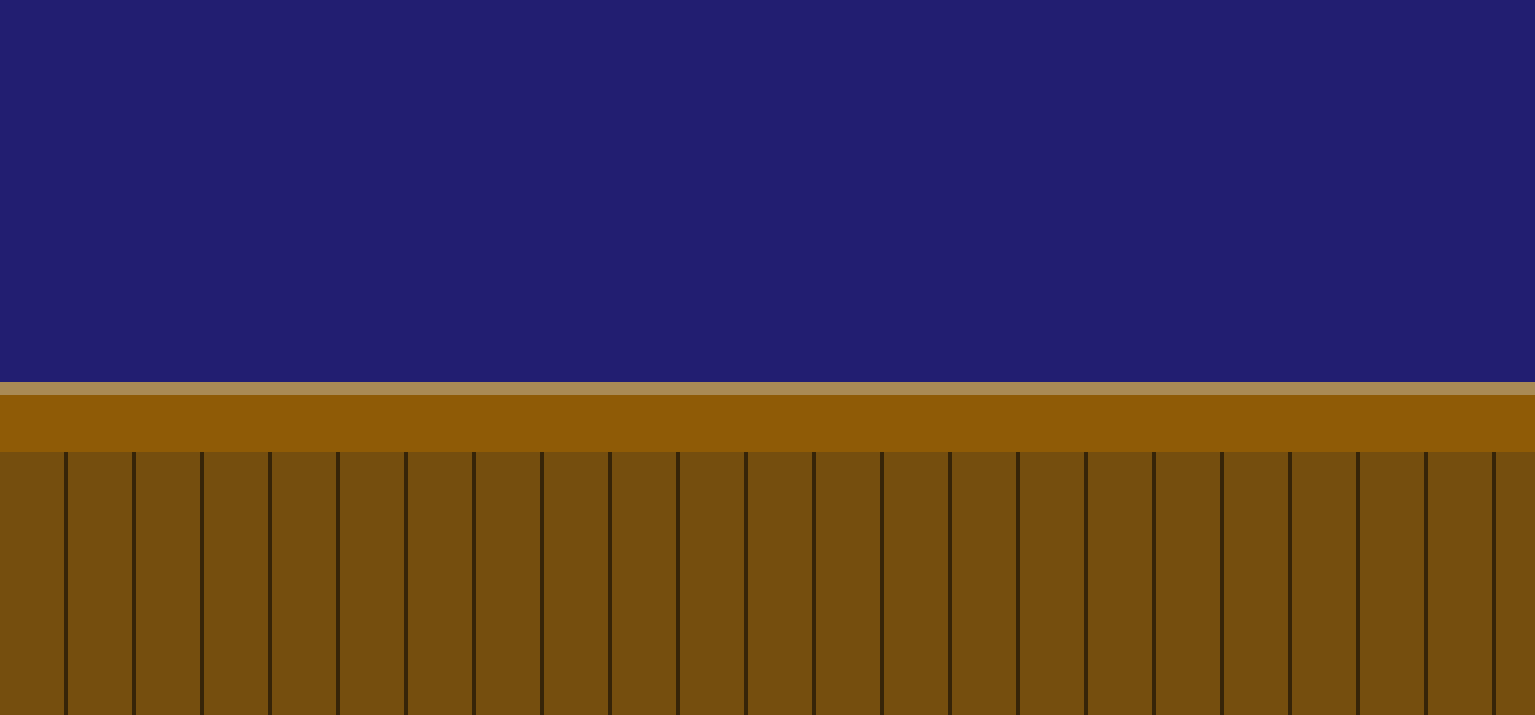
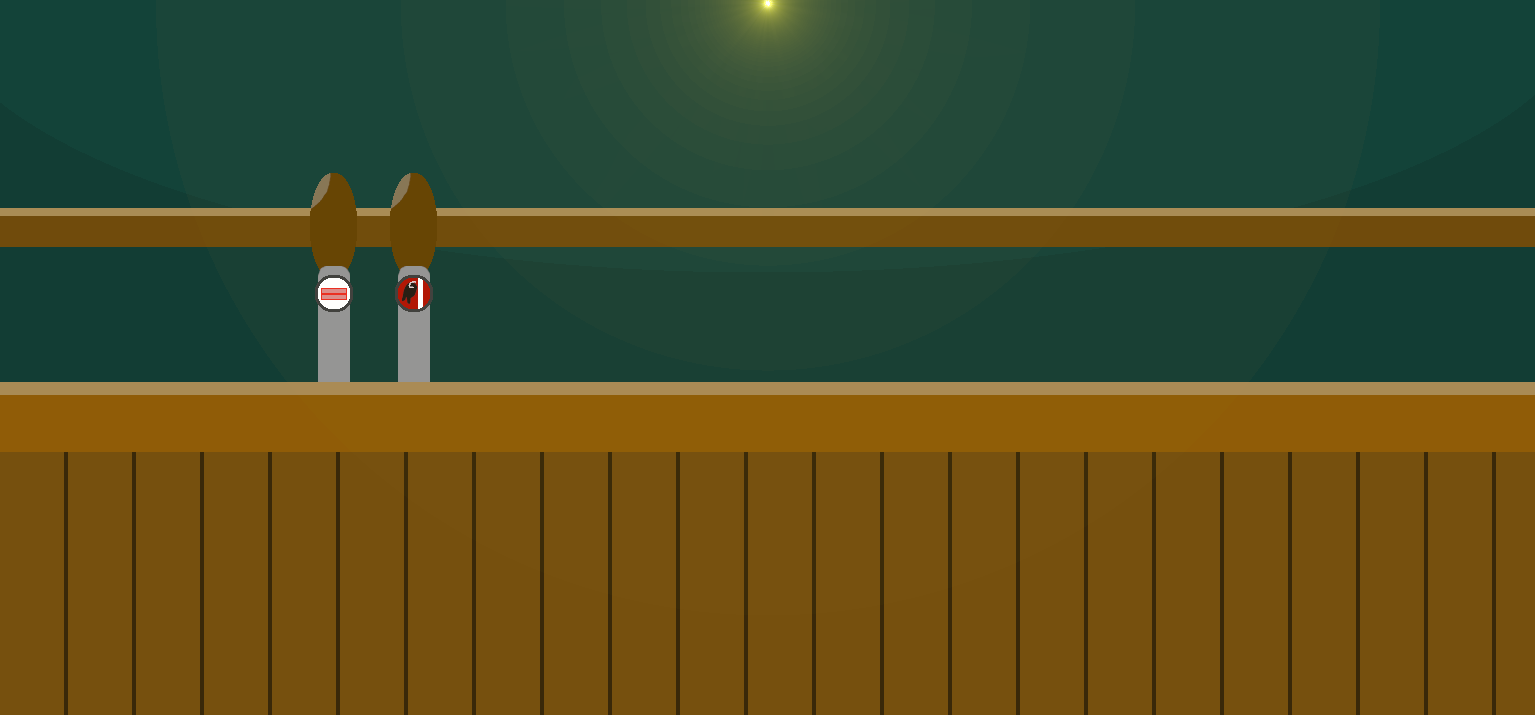
added final background

diff --git a/drunkster.py b/drunkster.py
@@ -143,14 +143,21 @@ while start_screen_running:
     bg = pygame.image.load('ui/images/bar.png')
     screen.blit(bg, (0,0))
 
+    # Display left plank
+    left_plank = pygame.image.load('ui/images/left_plank.png')
+    screen.blit(left_plank, (5, 437))
+
+    # Display left plank
+    left_plank = pygame.image.load('ui/images/right_plank.png')
+    screen.blit(left_plank, (1169, 344))
 
     # Set the pygame window name
     pygame.display.set_caption('Drunkster')
 
     # Displays text
     screen.blit(enter_player_text, (20, 520))
-    screen.blit(title_top_text, (440, 35))
-    screen.blit(title_bottom_text, (480, 170))
+    screen.blit(title_top_text, (440, 0))
+    screen.blit(title_bottom_text, (480, 135))
 
     # Displays "Add player" textbox
     text_surface = font_1.render(enter_player_textbox_input, True, (black))
